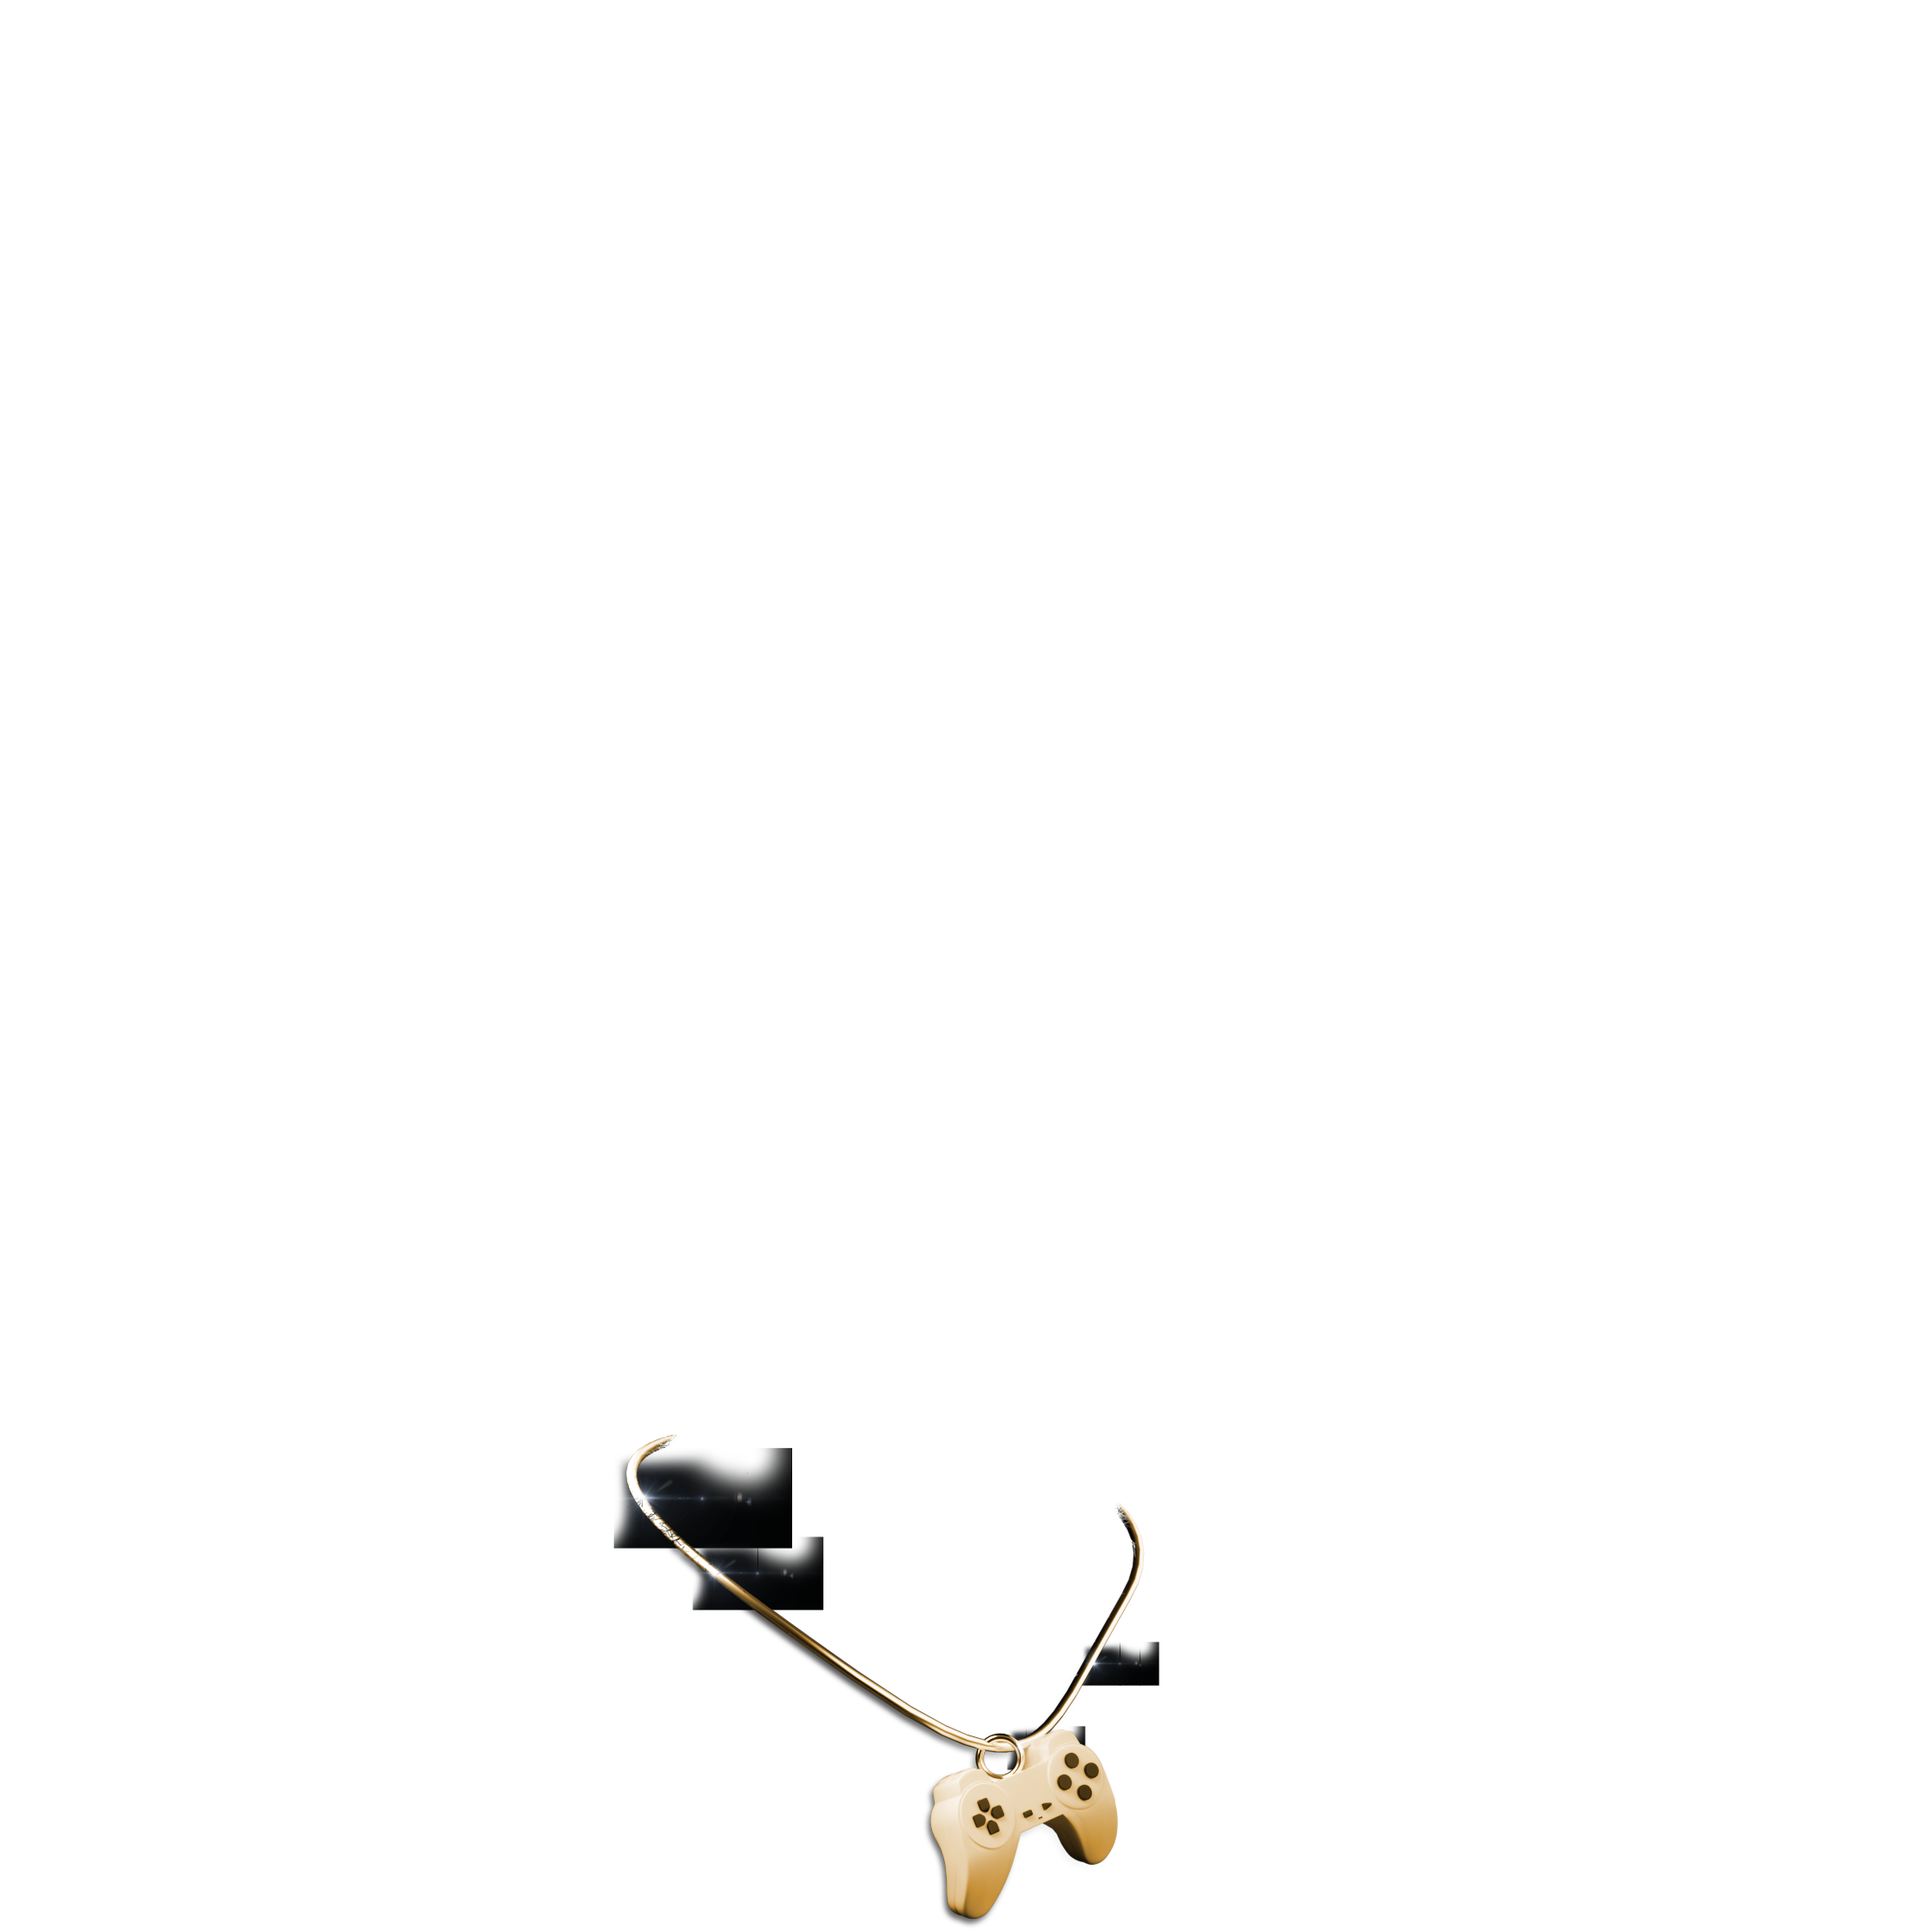
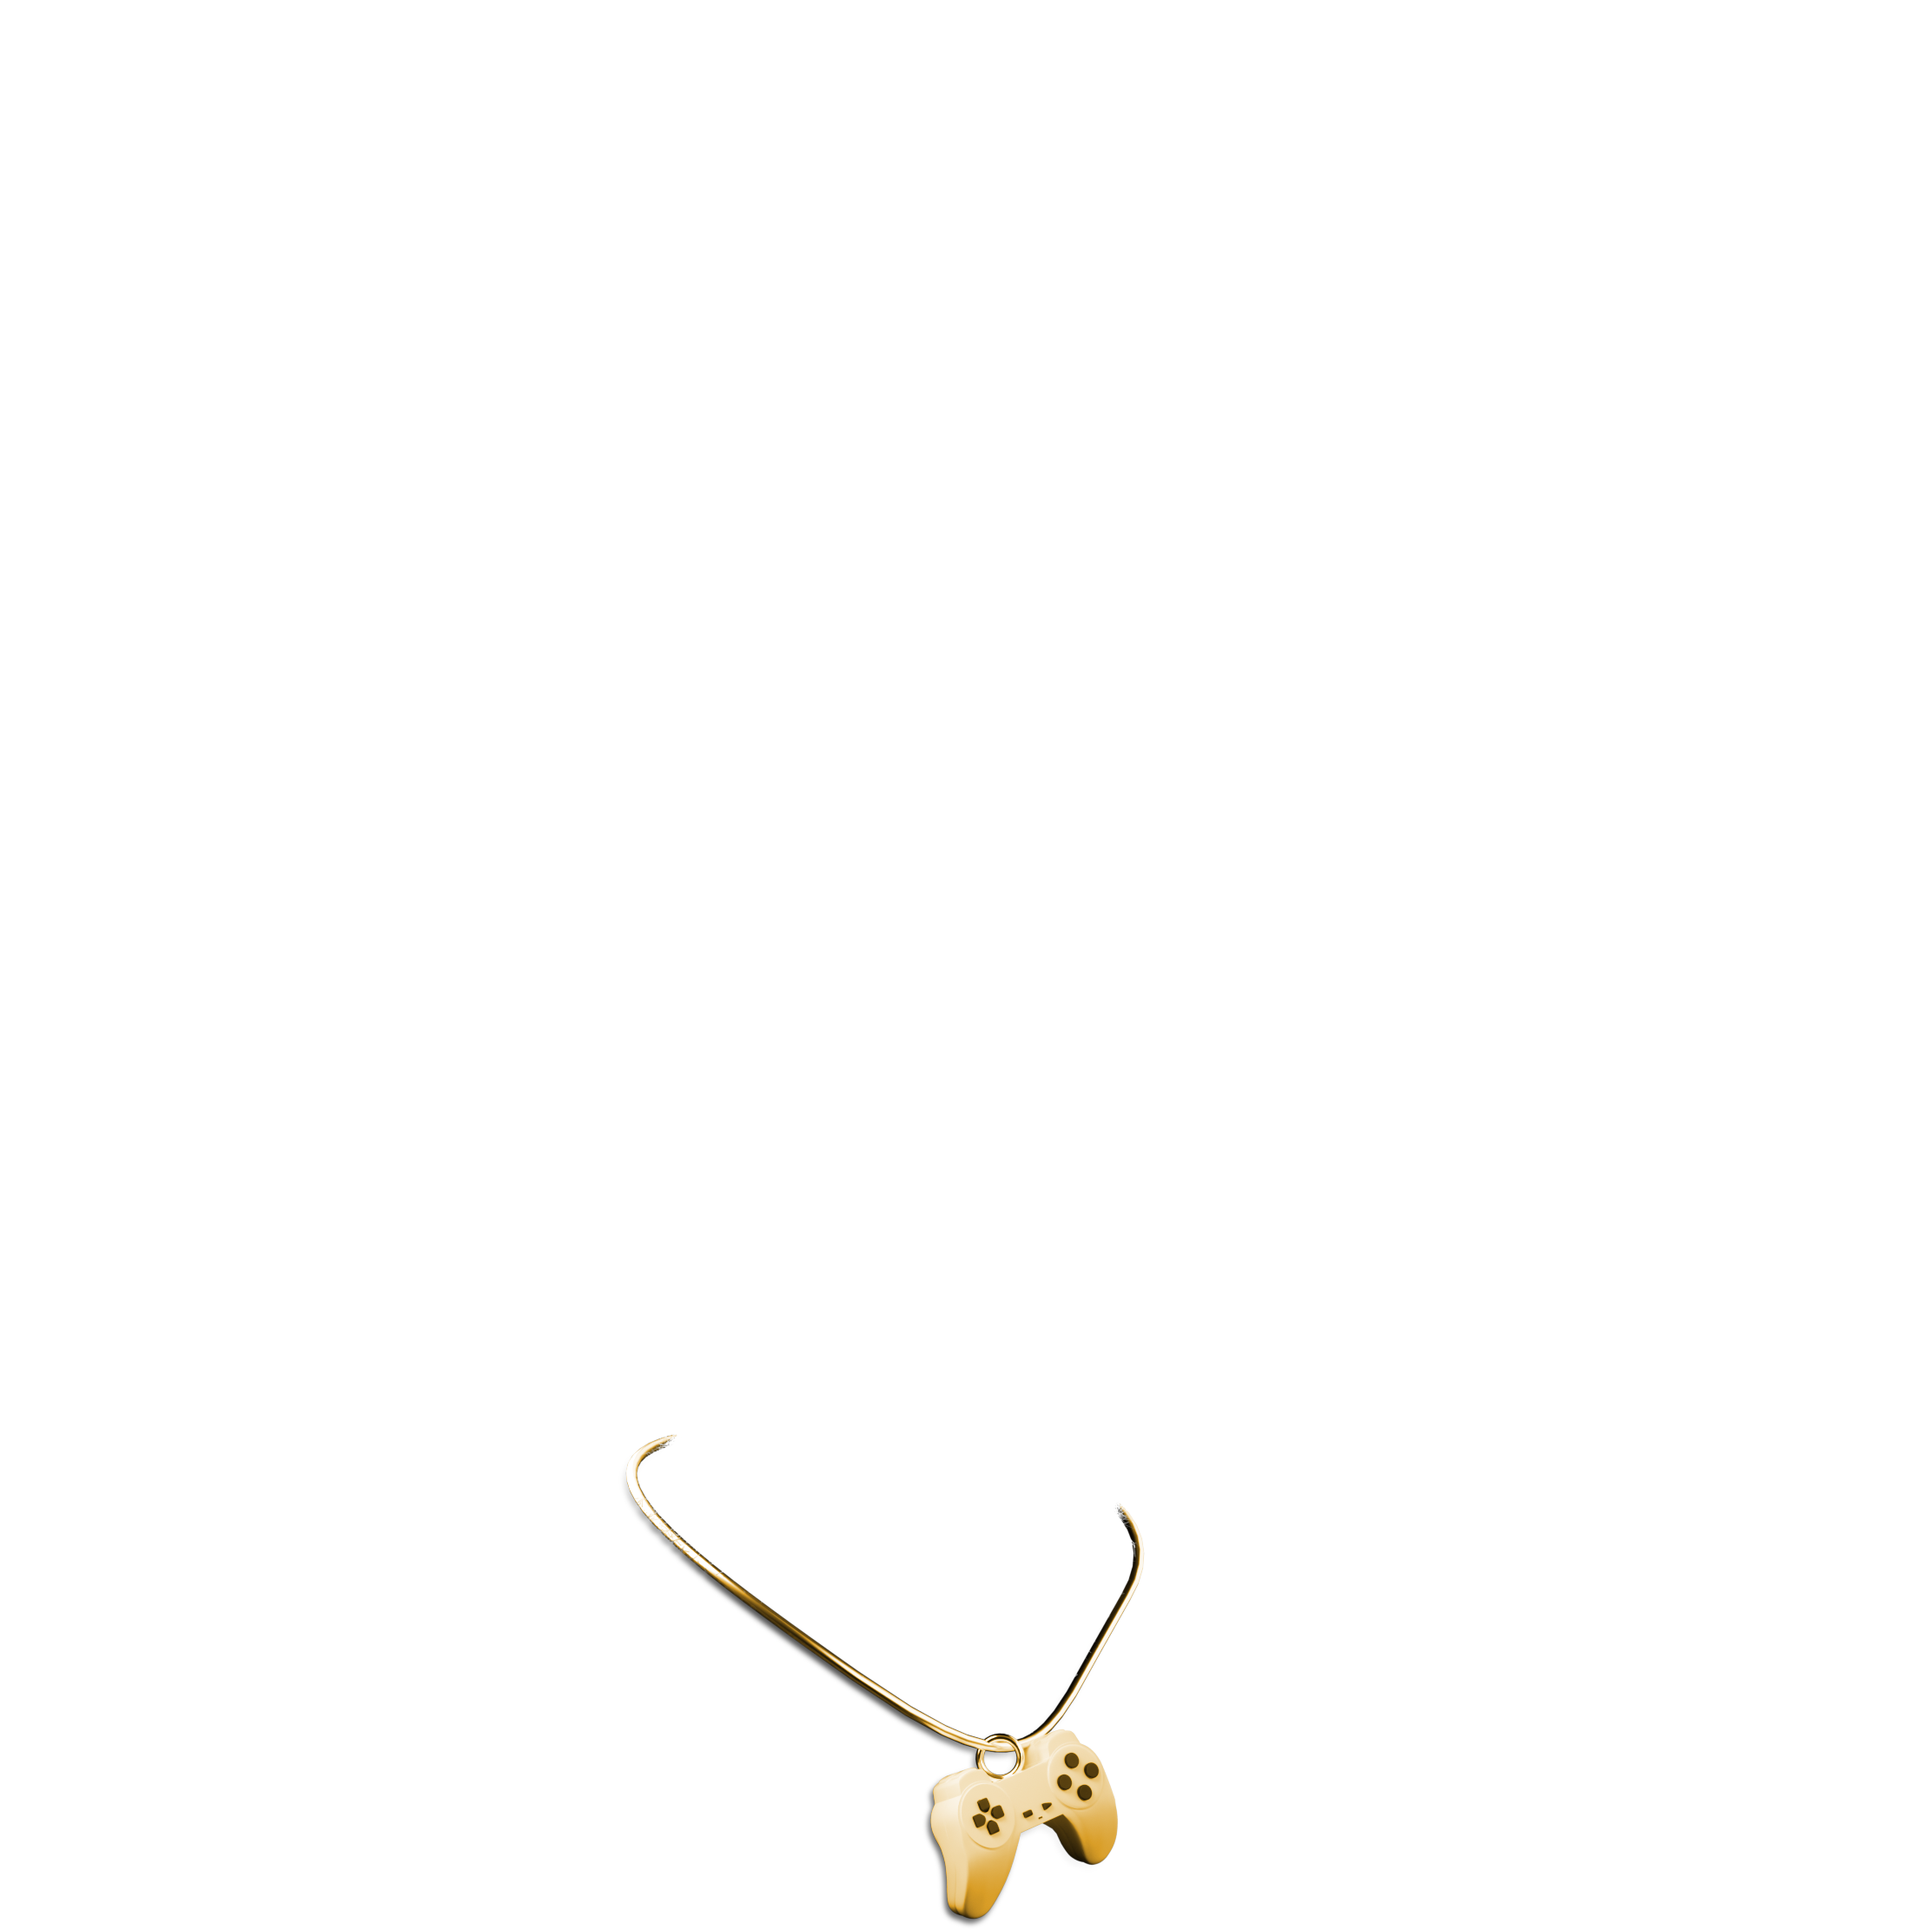
Updates assets and tweaks generation rules

Changed region(s): [[0.3105, 0.7453, 0.4347, 0.8384], [0.559, 0.8384, 0.6211, 0.9005]]

diff --git a/Utils/src/GenerateMeta/GenerateGAC.ts b/Utils/src/GenerateMeta/GenerateGAC.ts
@@ -1,3 +1,4 @@
+/* eslint-disable no-lone-blocks */
 import fs from 'fs';
 import { Blend } from 'sharp';
 import { compileNFT } from './GenerateImage';
@@ -24,10 +25,10 @@ const LayerOrder = [
     GACLayer.Neckwear,
     GACLayer.Clothing,
     GACLayer.Earring,
+    GACLayer.Tattoo,
     GACLayer.Headwear,
     GACLayer.Eyewear,
     GACLayer.Lasers,
-    GACLayer.Tattoo,
 ];
 
 const LayerRequirements: Record<Layer, boolean> = {
@@ -45,6 +46,24 @@ const LayerRequirements: Record<Layer, boolean> = {
     [GACLayer.Lasers]: false,
     [GACLayer.Tattoo]: false,
 };
+
+type RequiresScreen = Record<
+    Layer,
+    Record<string, boolean | undefined> | boolean | undefined
+>;
+
+/**
+ * Layers/Values that specifically need to be composited with the screen flag
+ */
+const ScreenRequirements: RequiresScreen = {
+    [GACLayer.Headwear]: {
+        'Dark Blue Halo': true,
+        'Light Blue Halo': true,
+        'Orange Halo': true,
+        'RGB Halo': true,
+    },
+    [GACLayer.Lasers]: true,
+} as never;
 
 export const getInitialUsedTraits = (
     rarityFile: string,
@@ -126,36 +145,6 @@ export const getInitialUsedTraits = (
     return usedTraits;
 };
 
-type RequiresScreen = Record<
-    Layer,
-    Record<string, boolean | undefined> | boolean | undefined
->;
-
-/**
- * Layers/Values that specifically need to be composited with the screen flag
- */
-const ScreenRequirements: RequiresScreen = {
-    [GACLayer.Headwear]: {
-        'Dark Blue Halo': true,
-        'Light Blue Halo': true,
-        'Orange Halo': true,
-        'RGB Halo': true,
-    },
-    [GACLayer.Lasers]: true,
-    [GACLayer.Neckwear]: {
-        'Gold Controller': true,
-        'Gold Double Cuban': true,
-        'Gold GAC': true,
-        'Gold Iron': true,
-        'Gold Single Cuban': true,
-        'Silver Controller': true,
-        'Silver Double Cuban': true,
-        'Silver GAC': true,
-        'Silver Iron': true,
-        'Silver Single Cuban': true,
-    },
-} as never;
-
 const transformNFT = (
     meta: ERC721MetaWithImagePath<GACLayer>,
     _: ERC721MetaWithImagePath<GACLayer>[],
@@ -164,6 +153,7 @@ const transformNFT = (
     const teeth = getAttributeByLayer(meta, GACLayer.Teeth);
     const headwear = getAttributeByLayer(meta, GACLayer.Headwear);
     const body = getAttributeByLayer(meta, GACLayer['Body & Eyes']);
+    const fur = getAttributeByLayer(meta, GACLayer.Fur);
     const eyewear = getAttributeByLayer(meta, GACLayer.Eyewear);
     const clothes = getAttributeByLayer(meta, GACLayer.Clothing);
     const neckwear = getAttributeByLayer(meta, GACLayer.Neckwear);
@@ -175,9 +165,31 @@ const transformNFT = (
     };
 
     if (!body) throw new Error('Missing body');
+    if (!fur) throw new Error('Missing body');
 
-    // no eyewear and headphones/headsets
-    if (headwear && eyewear && headwear.value.includes('Head'))
+    // no chains on light fur
+    if (neckwear) {
+        const validFur = [
+            'Black Leopard',
+            'Black',
+            'Brown',
+            'Camo',
+            'Dark Red',
+        ];
+
+        if (!validFur.includes(fur.value)) {
+            newMeta = {
+                ...newMeta,
+                attributes: newMeta.attributes.filter(
+                    (a) => a.trait_type !== GACLayer.Neckwear
+                ),
+            };
+        }
+    }
+
+    const badHeadwearForEyewear = ['Camo Buckethat', 'Cap'];
+    // no eyewear and certain headwear
+    if (headwear && eyewear && badHeadwearForEyewear.includes(headwear.value))
         newMeta = {
             ...newMeta,
             attributes: newMeta.attributes.filter(
@@ -323,6 +335,34 @@ export const generateGACMetadata = (
     return result;
 };
 
+const imageLayerOrderComparator = (
+    layer1: ERC721Attribute<GACLayer>,
+    layer2: ERC721Attribute<GACLayer>
+): 0 | 1 | -1 => {
+    {
+        // move eyepatch to back, certain hats/headsets to front
+        if (
+            layer1.trait_type === GACLayer.Headwear &&
+            layer2.trait_type === GACLayer.Eyewear
+        ) {
+            if (layer2.value === 'Eye Patch') return 1;
+
+            if (layer2.value.includes('Head')) return 1;
+        }
+
+        if (
+            layer2.trait_type === GACLayer.Headwear &&
+            layer1.trait_type === GACLayer.Eyewear
+        ) {
+            if (layer1.value === 'Eye Patch') return -1;
+
+            if (layer2.value.includes('Head')) return -1;
+        }
+    }
+
+    return 0;
+};
+
 export const generateGACImages = async (
     metadata: ERC721MetaWithImagePath<GACLayer>[],
     targetDir: string
@@ -344,7 +384,12 @@ export const generateGACImages = async (
         metadata.map(async (nft, i) => {
             console.log(`Generating image for ${i}`);
 
-            const nftImage = compileNFT(nft, (): 0 => 0, undefined, getBlend);
+            const nftImage = compileNFT(
+                nft,
+                imageLayerOrderComparator,
+                undefined,
+                getBlend
+            );
             await nftImage.webp().toFile(`${targetDir}/${i}.webp`);
 
             console.log(`Generated image for ${i}`);
